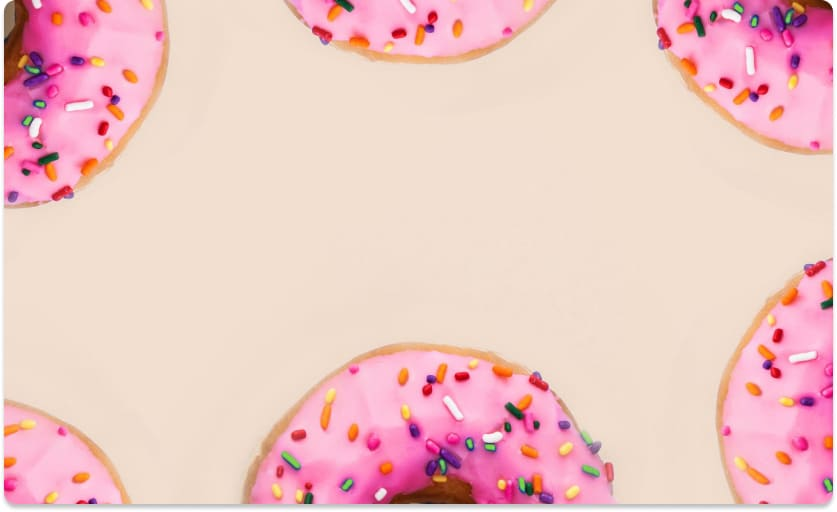
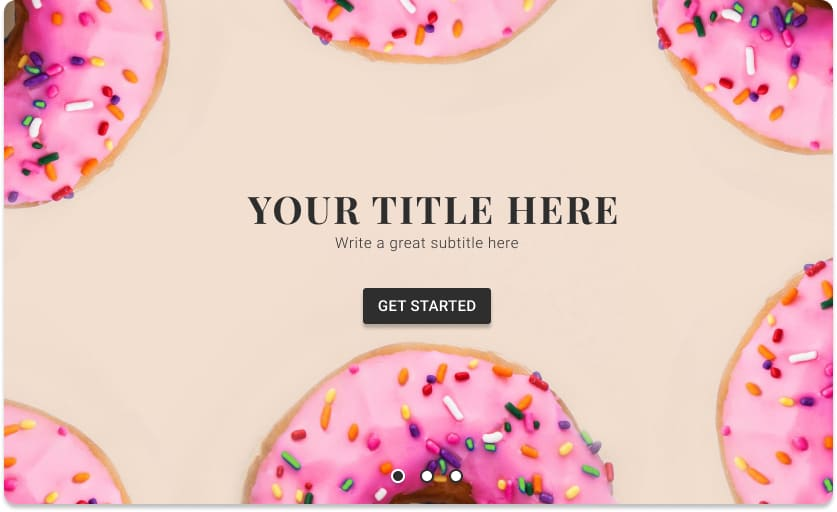
ajuste imagen y texto boton

diff --git a/src/app/components/hero/hero-section.component.html b/src/app/components/hero/hero-section.component.html
@@ -1,10 +1,8 @@
 <div class="hero-container">
   <div class="hero-container__columns">
     <h1>¡Añadir un Hero nunca fué tan fácil!</h1>
-    <p>
-      Añade un hero a tu página web en cuestión de segundos
-    </p>
-    <app-button title="Inicia tu proyecto ahora"></app-button>
+    <p>Añade un hero a tu página web en cuestión de segundos</p>
+    <app-button title="Empezar ahora" class="font-dark"></app-button>
   </div>
   <div class="hero-container__columns">
     <img src="../../../assets/hero-img.jpg" alt="image" />
